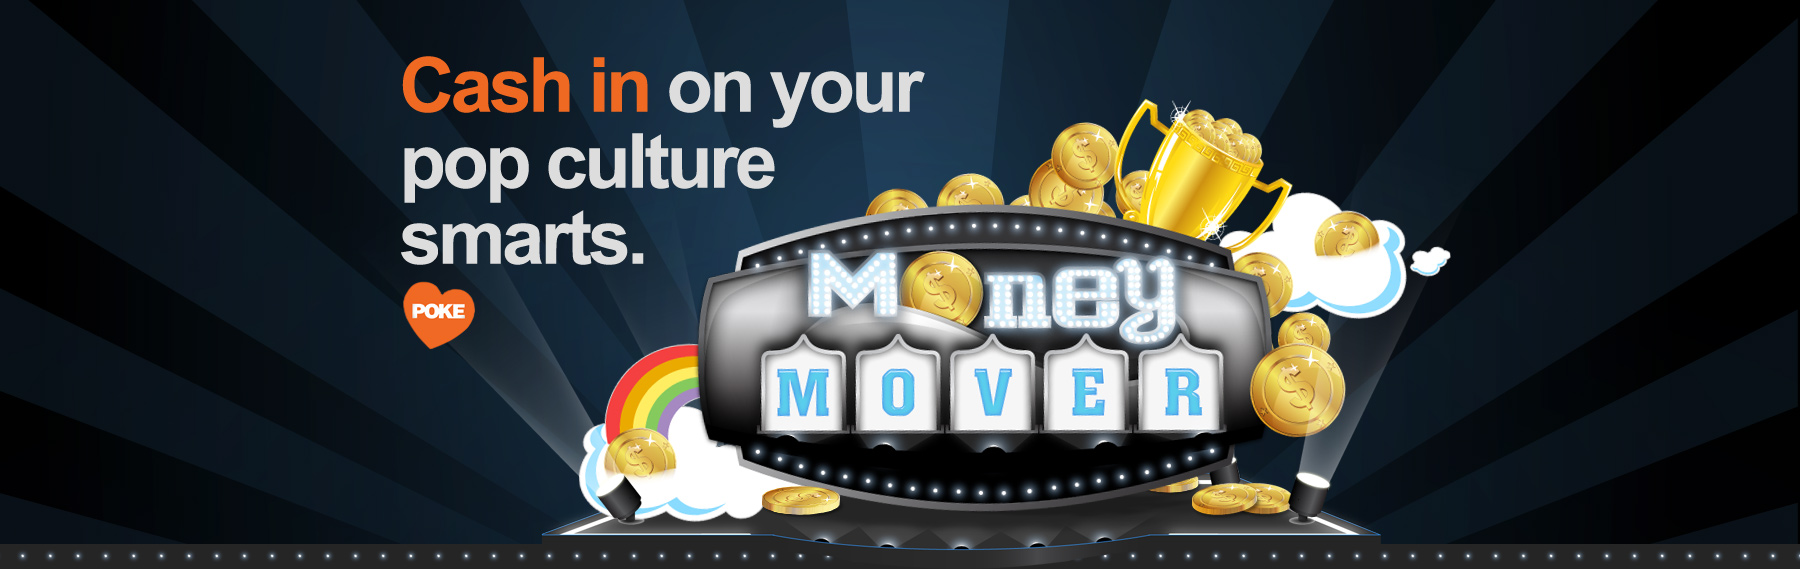
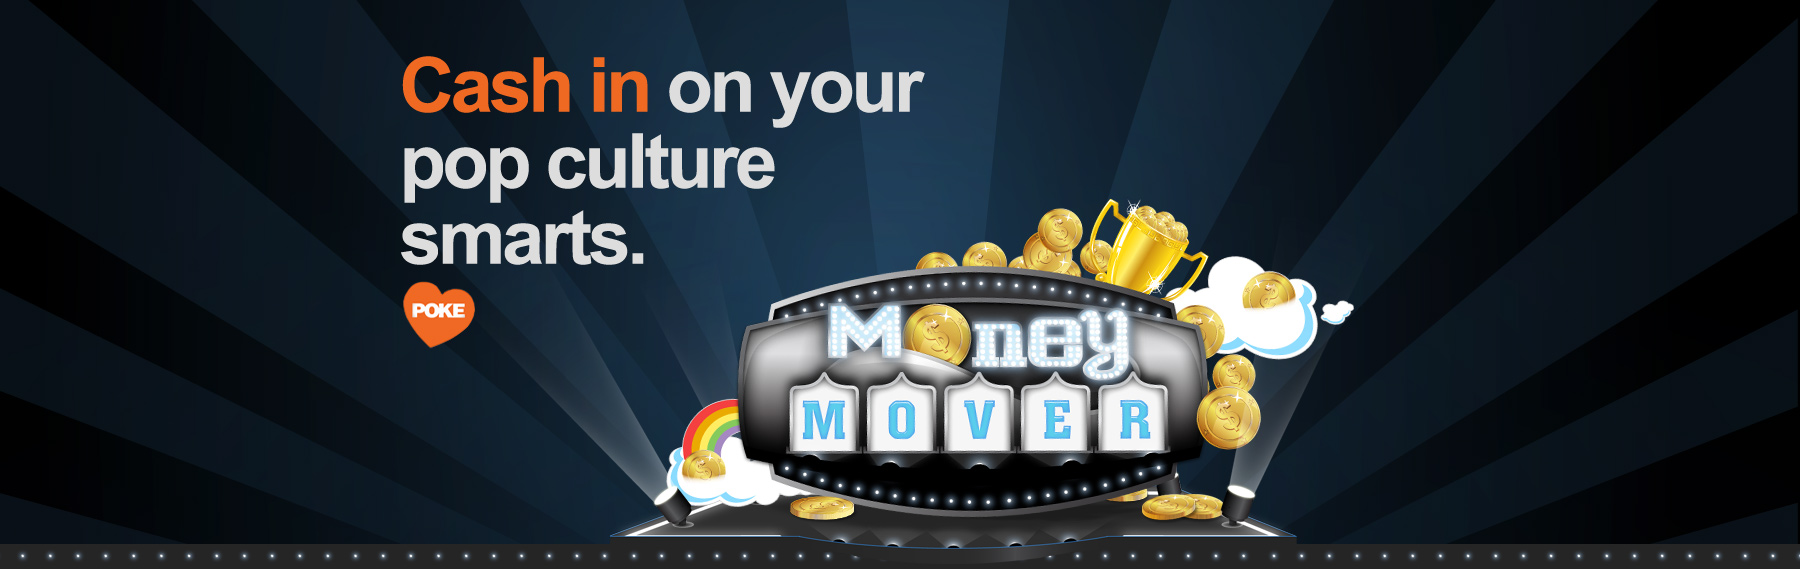
Serve - Updated mainImage.jpg with smaller lockup, and changed background for mainImage to #000000

Changed region(s): [[0.2489, 0.1793, 0.8089, 1.0], [0.2178, 0.5378, 0.28, 0.5677]]

diff --git a/amex_serve/index.html b/amex_serve/index.html
@@ -21,7 +21,7 @@
 	
 	<style>
 		#mainImageServeSK {
-			background: #fff url(../amex_serve/images/mainImage.jpg) top center;
+			background: #000000 url(../amex_serve/images/mainImage.jpg) top center;
 			background-repeat: no-repeat;
 			width: 100%;
 			height: 569px;
